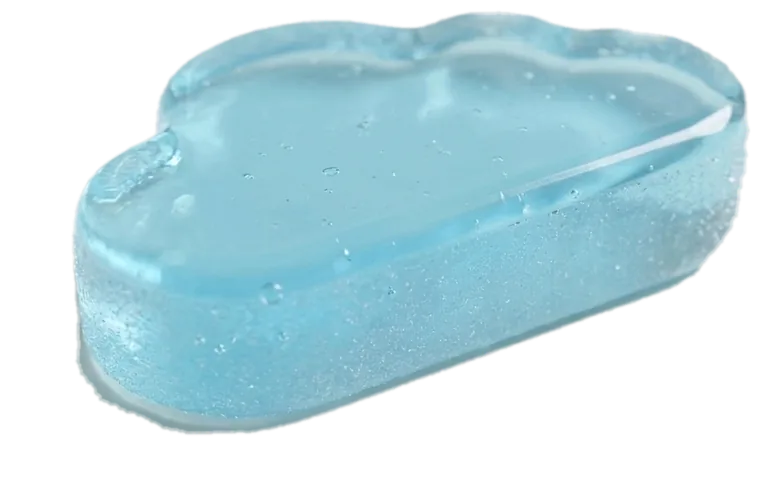
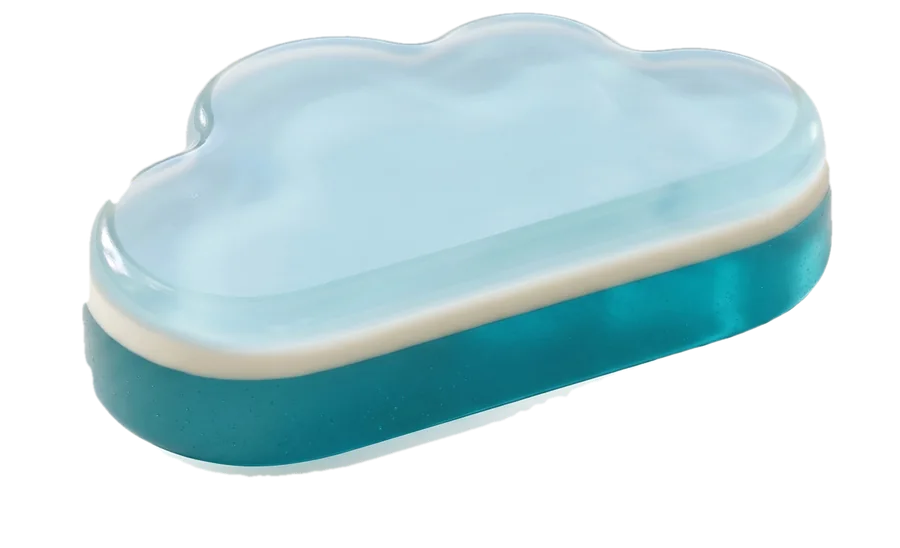
Home: paneles Hosting Web / VPS a todo el ancho según maqueta, nube jelly nueva en VPS
- Nube recortada de la nueva foto; sombra en capa multiply (conserva el reflejo arcoíris)
- Título HOSTING + WEB/VPS, pestaña activa con barra inferior
- Planes reales de WHMCS: se omite el encabezado «Características», specs más anchas

diff --git a/components/home/PlanPicker.module.css b/components/home/PlanPicker.module.css
@@ -1,36 +1,40 @@
 /* Selector Hosting Web / VPS + planes · tarjetas pastel con el lenguaje visual de las tarjetas de la home */
-.section { max-width: var(--container-boxed); margin-inline: auto; padding: 20px 0 40px; }
+.section { padding: 20px 0 40px; }
 
-/* ---------- Tarjetas selector ---------- */
-.cards { display: grid; grid-template-columns: 1fr 1fr; gap: 20px; }
+/* ---------- Paneles selector: a todo el ancho, pegados y sin redondeo (maqueta) ---------- */
+.cards { display: grid; grid-template-columns: 1fr 1fr; }
 .card {
   position: relative; overflow: hidden;
-  display: flex; align-items: center; justify-content: space-between;
-  min-height: 300px;
-  padding: 20px 30px 20px 40px;
-  border-radius: 12px;
-  outline: 2px solid transparent; outline-offset: -2px;
-  background-repeat: no-repeat; background-size: cover; background-position: right center;
+  display: flex; align-items: center;
+  min-height: 326px;
+  padding: 40px 64px;
   cursor: pointer;
-  transition: outline-color 0.3s, box-shadow 0.3s, transform 0.3s;
 }
-.web { background-color: #dcefef; }
-.vps { background-color: var(--bg-card-hosting); }
-.card:hover { transform: translateY(-2px); }
-.active { outline-color: #111; box-shadow: 0 20px 40px -24px rgba(0, 0, 0, 0.35); }
-.card:focus-visible { outline: 3px solid var(--c-link); }
-.cardBody { position: relative; z-index: 1; flex: 0 0 auto; max-width: 52%; }
+.web { background-color: #e4f1f2; }
+.vps { background-color: #f1edea; }
+/* pestaña activa: barra inferior */
+.card::after {
+  content: ''; position: absolute; left: 0; right: 0; bottom: 0; height: 4px;
+  background: #111; transform: scaleX(0); transform-origin: left; transition: transform 0.45s var(--ease-out-expo);
+}
+.active::after { transform: none; }
+.card:focus-visible { outline: 3px solid var(--c-link); outline-offset: -3px; }
+.cardBody { position: relative; z-index: 1; max-width: 55%; }
 .title {
-  font: 700 64px/0.95 var(--font-oswald); letter-spacing: -2px; color: var(--c-text-3f3e3e);
-  margin-bottom: 14px;
+  display: flex; align-items: baseline; gap: 6px;
+  margin-bottom: 26px;
+  font: 700 62px/1 var(--font-oswald); letter-spacing: -1.5px; color: var(--c-text-3f3e3e);
 }
+.eyebrow { font-size: 38px; letter-spacing: -1px; }
 .web .title { color: var(--c-navy); }
-.text { margin-bottom: 24px; font: 400 15px/23.25px var(--font-poppins); letter-spacing: 0.1px; color: var(--c-text); }
+.text { margin-bottom: 26px; font: 400 15px/23.25px var(--font-poppins); letter-spacing: 0.1px; color: var(--c-text); }
 .btn { cursor: pointer; }
-.jelly { flex: 0 0 auto; width: 46%; margin-right: -10px; }
+/* La nube de VPS se sale por la derecha (recortada por el panel) */
+/* Sin transform: un transform aislaría la capa «multiply» de la sombra y se vería un rectángulo blanco */
+.jelly { --jw: 470px; position: absolute; top: 50%; right: -150px; width: var(--jw); margin-top: calc(var(--jw) * -548 / 900 / 2); }
 
 /* ---------- Planes ---------- */
-.panel { padding-top: 50px; scroll-margin-top: 90px; }
+.panel { max-width: var(--container-boxed); margin-inline: auto; padding-top: 50px; scroll-margin-top: 90px; }
 .toggle {
   display: flex; width: max-content; margin: 0 auto;
   padding: 5px; border: 1px solid #e3e3e3; border-radius: 40px; background: #fff;
@@ -63,8 +67,8 @@
 .na { margin-bottom: 24px; font: 400 14px/1.5 var(--font-poppins); color: #777; }
 .specs { margin-bottom: 22px; }
 .specs > div { display: flex; justify-content: space-between; gap: 12px; padding: 12px 0; border-bottom: 1px solid #ececec; }
-.specs dt { font: 400 12px/1.4 var(--ff-space-grotesk), sans-serif; letter-spacing: 1.5px; text-transform: uppercase; color: #777; }
-.specs dd { font: 500 15px/1.4 var(--ff-space-grotesk), sans-serif; color: #1a1a1a; text-align: right; }
+.specs dt { flex: 0 1 45%; font: 400 12px/1.4 var(--ff-space-grotesk), sans-serif; letter-spacing: 1.5px; text-transform: uppercase; color: #777; }
+.specs dd { flex: 1 0 auto; max-width: 60%; font: 500 15px/1.4 var(--ff-space-grotesk), sans-serif; color: #1a1a1a; text-align: right; }
 .features { margin-bottom: 26px; }
 .features li { position: relative; padding: 5px 0 5px 26px; font: 400 15px/1.45 var(--font-poppins); color: #333; }
 .features li::before {
@@ -83,21 +87,22 @@
 .error a { color: var(--c-link); text-decoration: underline; }
 
 @media (max-width: 1199px) {
-  .section { padding: 20px 20px 40px; max-width: var(--container-boxed-tablet); }
-  .title { font-size: 52px; }
+  .panel { max-width: none; padding-inline: 20px; }
+  .card { padding: 36px 40px; min-height: 300px; }
+  .title { font-size: 52px; } .eyebrow { font-size: 32px; }
+  .jelly { --jw: 380px; right: -140px; }
 }
 @media (max-width: 900px) {
   .cards { grid-template-columns: 1fr; }
+  .card { min-height: 260px; }
+  .jelly { --jw: 360px; right: -90px; }
 }
 @media (max-width: 767px) {
-  .section { padding: 15px 10px 30px; }
-  .card { min-height: 0; padding: 26px 16px 22px 22px; }
-  .title { font-size: 42px; letter-spacing: -1px; }
-  .cardBody { max-width: 56%; }
-  .jelly { width: 48%; }
+  .section { padding: 15px 0 30px; }
+  .panel { padding-inline: 10px; }
+  .card { min-height: 230px; padding: 28px 22px; }
+  .cardBody { max-width: 62%; }
+  .title { font-size: 44px; letter-spacing: -1px; } .eyebrow { font-size: 27px; }
+  .jelly { --jw: 250px; right: -95px; }
   .toggle button { padding: 10px 18px; }
-}
-@media (max-width: 600px) {
-  .vps { background-image: none !important; } /* la imagen tapaba el texto en móvil */
-  .cardBody { max-width: 60%; }
 }

diff --git a/public/jelly/jelly.css b/public/jelly/jelly.css
@@ -1,14 +1,16 @@
 /* jelly.css · capas de la nube de gominola (compartido por la demo y la home) */
 .jelly {
   position: relative;
-  aspect-ratio: 760 / 488;          /* proporción del recorte cloud.webp */
+  aspect-ratio: 900 / 548;          /* proporción del recorte cloud.webp */
   touch-action: manipulation;
   cursor: pointer;
   -webkit-tap-highlight-color: transparent;
   user-select: none;
 }
 .jelly > img { position: absolute; inset: 0; width: 100%; height: 100%; display: block; pointer-events: none; -webkit-user-drag: none; }
-.jelly-shadow { transform-origin: 45% 82%; will-change: transform, opacity; }
+/* La sombra es una capa «multiply» (blanco = sin efecto): conserva el tono y el reflejo arcoíris
+   de la foto sobre cualquier fondo claro. */
+.jelly-shadow { transform-origin: 50% 84%; mix-blend-mode: multiply; will-change: transform, opacity; }
 .jelly-canvas { position: absolute; pointer-events: none; width: auto; height: auto; }
 /* Con WebGL la <img> queda invisible (sigue dando tamaño y coordenadas del puntero) */
 .jelly--webgl .jelly-img { opacity: 0; }

diff --git a/components/home/PlanPicker.tsx b/components/home/PlanPicker.tsx
@@ -47,16 +47,15 @@ export function PlanPicker({ plans }: { plans: Record<Key, PlansResult> }) {
             aria-controls="pp-panel"
             tabIndex={sel === o.key ? 0 : -1}
             className={`${s.card} ${s[o.key]} ${sel === o.key ? s.active : ''}`}
-            style={'bg' in o ? { backgroundImage: `url(${o.bg})` } : undefined}
             onClick={() => choose(o.key)}
             onKeyDown={e => onKey(e, i)}
           >
             <div className={s.cardBody}>
-              <h2 className={s.title}>{o.title}</h2>
+              <h2 className={s.title}><span className={s.eyebrow}>{o.eyebrow}</span> {o.title}</h2>
               <p className={s.text}>{o.text}</p>
               <span className={`btn-sm ${s.btn}`} onClick={e => { e.stopPropagation(); choose(o.key, true); }}>{o.button}</span>
             </div>
-            {o.key === 'web' && <JellyCloud alt={c.cloud.alt} className={s.jelly} />}
+            {o.key === 'vps' && <JellyCloud alt={c.cloud.alt} className={s.jelly} />}
           </div>
         ))}
       </div>

diff --git a/content/home.ts b/content/home.ts
@@ -215,11 +215,11 @@ export const family = [
 ];
 
 /* ---------- Selector Hosting Web / VPS + planes (añadido; no existe en el original) ---------- */
-// TODO: subtítulo de VPS e imagen de su tarjeta provisionales, pendientes de confirmar.
+// TODO: subtítulo de VPS provisional, pendiente de confirmar.
 export const planPicker = {
   options: [
-    { key: 'web', title: 'HOSTING WEB', text: 'Alojamiento web rápido y fiable', button: 'ver planes' },
-    { key: 'vps', title: 'HOSTING VPS', text: 'Servidores virtuales con recursos dedicados', button: 'ver planes', bg: '/wp-content/uploads/2024/12/hosting-y-dominios.jpg' },
+    { key: 'web', eyebrow: 'HOSTING', title: 'WEB', text: 'Alojamiento web rápido y fiable', button: 'ver planes' },
+    { key: 'vps', eyebrow: 'HOSTING', title: 'VPS', text: 'Servidores virtuales con recursos dedicados', button: 'ver planes' },
   ],
   cloud: { alt: 'Nube de gominola azul translúcida' },
   cycles: { monthly: 'Mensual', annually: 'Anual' },

diff --git a/components/home/JellyCloud.tsx b/components/home/JellyCloud.tsx
@@ -19,9 +19,9 @@ export function JellyCloud({ alt, className }: { alt: string; className?: string
   return (
     <div ref={ref} className={`jelly ${className ?? ''}`}>
       {/* eslint-disable-next-line @next/next/no-img-element -- la <img> es la textura WebGL: debe ser el archivo original, sin optimizar */}
-      <img className="jelly-shadow" src="/jelly/shadow.webp" alt="" width={760} height={488} />
+      <img className="jelly-shadow" src="/jelly/shadow.webp" alt="" width={900} height={548} />
       {/* eslint-disable-next-line @next/next/no-img-element */}
-      <img className="jelly-img" src="/jelly/cloud.webp" alt={alt} width={760} height={488} />
+      <img className="jelly-img" src="/jelly/cloud.webp" alt={alt} width={900} height={548} />
     </div>
   );
 }

diff --git a/lib/whmcs.ts b/lib/whmcs.ts
@@ -60,6 +60,7 @@ function toPlan(p: WhmcsProduct): Plan {
   const lines = htmlToLines(p.description ?? '');
   const specs: Plan['specs'] = [], features: string[] = [];
   for (const l of lines) {
+    if (/^características:?$/i.test(l)) continue; // encabezado, no es una característica
     const m = /^([^:]{1,30}):\s*(.+)$/.exec(l);
     if (m) specs.push({ label: m[1]!.trim(), value: m[2]!.trim() }); else features.push(l);
   }

diff --git a/NOTAS.md b/NOTAS.md
@@ -55,9 +55,11 @@ Rarezas o mejoras posibles detectadas en el original. **Se replican tal cual** s
     - **Origen de los datos:** los planes salen de la acción `GetProducts` de la API de WHMCS (`lib/whmcs.ts`) y se consultan **solo durante `npm run build`**. Las credenciales están en `.env.local` y no llegan al navegador.
     - **Actualización:** los precios se refrescan en cada build.
     - **IDs de producto:** están en `PLAN_IDS`.
-    - **Pendiente en WHMCS:** dar a la credencial API el permiso `GetProducts` (y, si se usa lista blanca de IPs, añadir la del servidor de build). Hasta entonces se muestra el aviso con el enlace al carrito del panel.
-    - **Textos provisionales:** el subtítulo de VPS y su imagen de fondo.
-34. **Nube de gominola** (`public/jelly/`). Es la foto recortada (`cloud.webp`) y una capa de sombra aparte (`shadow.webp`).
+    - **Permiso en WHMCS:** la credencial API tiene el permiso `GetProducts`. Si falla, se muestra un aviso con el enlace al carrito del panel.
+    - **Características de los planes:** salen de la descripción de cada producto en WHMCS. Las líneas «Etiqueta: valor» se muestran como tabla y el resto como lista. CVPS 1 y CVPS 2 no tienen descripción.
+    - **Diseño:** paneles a todo el ancho según la maqueta del cliente. La nube va en el panel de VPS y la pestaña activa se marca con una barra inferior.
+    - **Texto provisional:** el subtítulo de VPS.
+34. **Nube de gominola** (`public/jelly/`). Es la foto recortada (`cloud.webp`, segunda imagen del cliente) y una capa de sombra aparte (`shadow.webp`). La sombra se aplica en modo `multiply` para conservar el reflejo arcoíris. Ningún elemento por encima de la sombra puede llevar `transform`, porque aislaría la mezcla y se vería un rectángulo blanco.
     - Se anima con WebGL sobre una malla de 48×32, con fallback de CSS transforms.
     - Respeta `prefers-reduced-motion` y se pausa fuera de pantalla.
     - Parámetros: objeto `CONFIG` al inicio de `jelly.js`.
